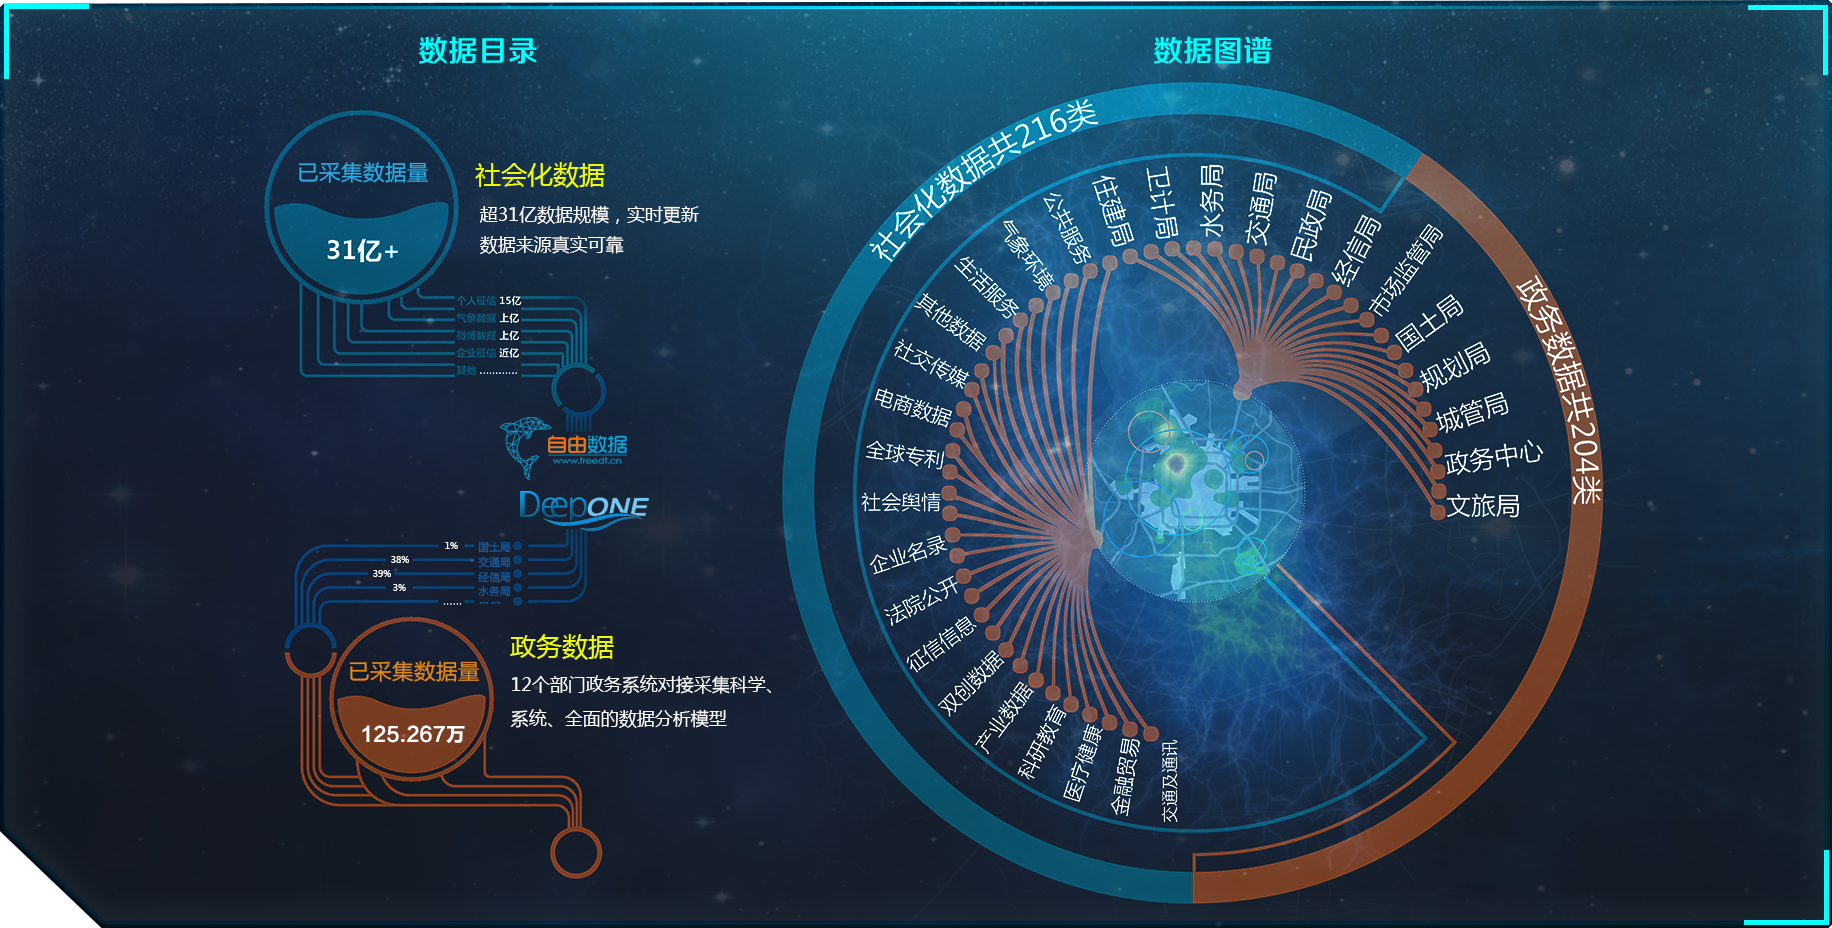
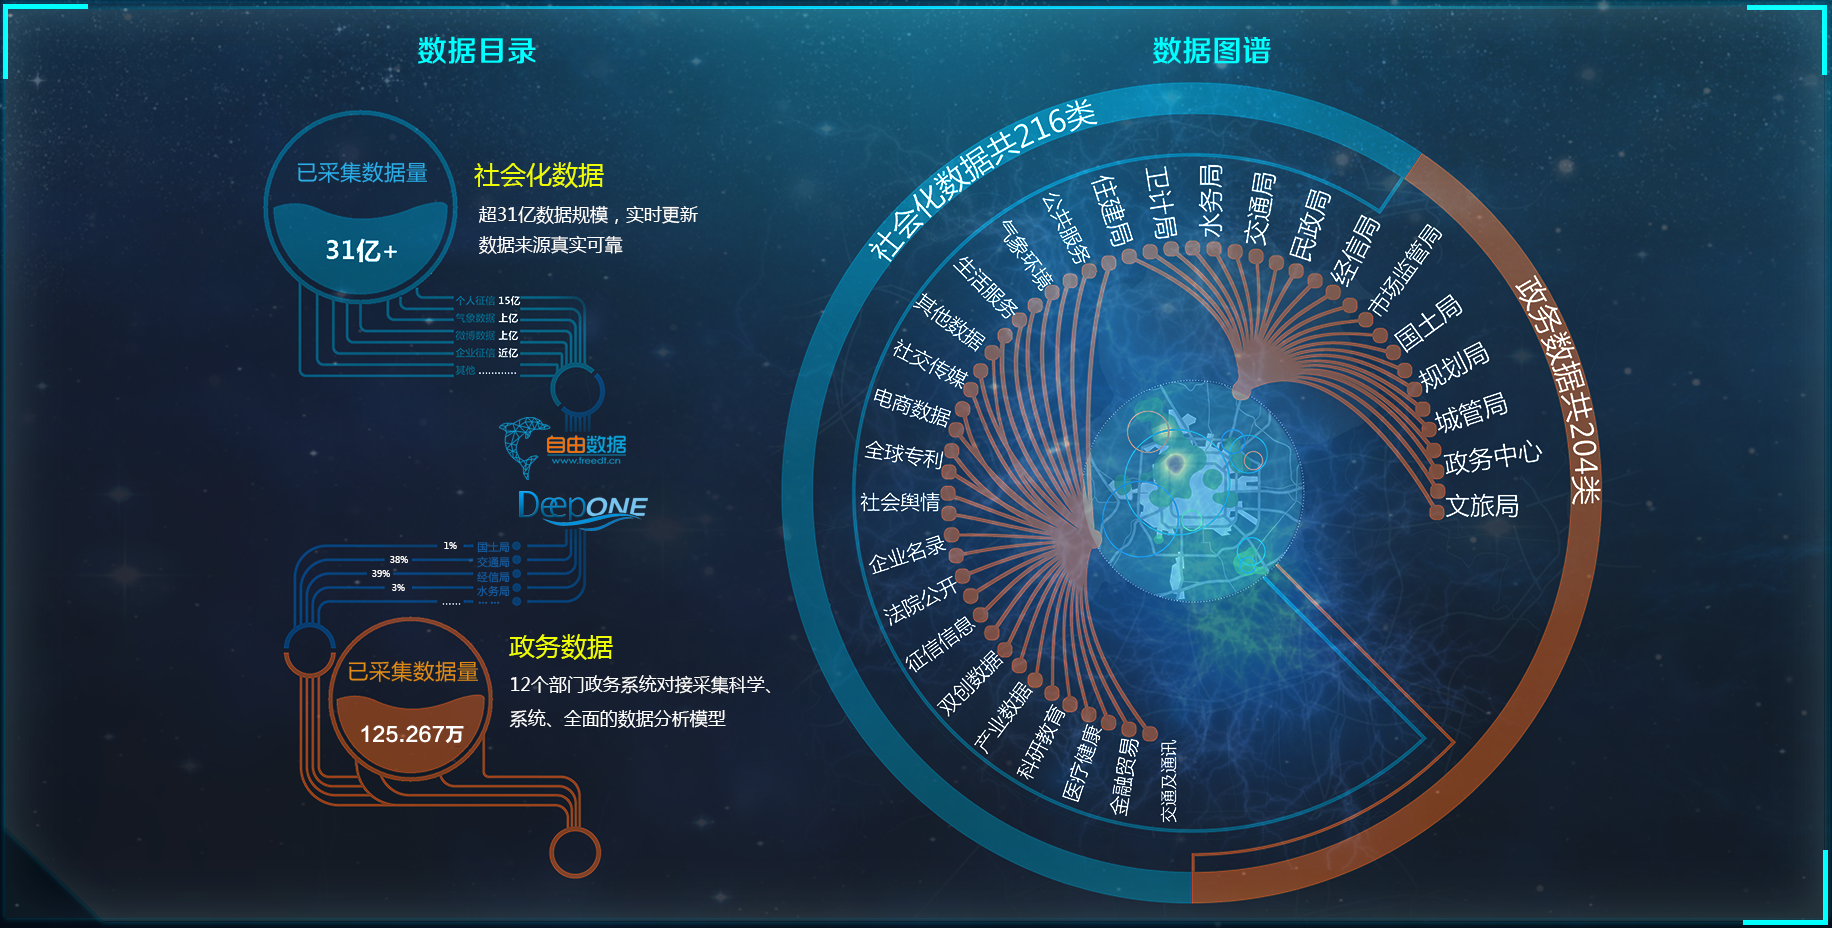
Seperating modules

diff --git a/web/CZPortal/artifact/partials/dashboard/style.less b/web/CZPortal/artifact/partials/dashboard/style.less
@@ -1,12 +1,13 @@
 #dashboard{
   width:7680px;
   height:2160px;
-  background:url(../assets/images/bg.png) no-repeat;
+  // background:url(../assets/images/bg.png) no-repeat;
 }
   .section-center{
     width:3840px;
     height:1080px;
     float:left;
+    background:url(../assets/images/bg_2.png) center no-repeat;
     .title{
       width:100%;
       height:294px;
@@ -19,13 +20,35 @@
       background:url(../assets/images/timeline.png) center no-repeat;
     }
   }
+  .section-main{
+    width:3840px;
+    height:2160px;
+  }
   .section {
     width: 1920px;
     height: 1080px;
     padding: 0 40px;
     float: left;
     &.city-datamap{
-      background:url(../assets/images/bg_datamap.png) center no-repeat;
+      background:url(../assets/images/bg_5.png) center no-repeat;
+      .content{
+        background:url(../assets/images/bg_datamap.png) center no-repeat;
+      }
+    }
+    &.standard{
+      background:url(../assets/images/bg_1.png) center no-repeat;
+    }
+    &.dept{
+      background:url(../assets/images/bg_3.png) center no-repeat;
+    }
+    &.support{
+      background:url(../assets/images/bg_4.png) center no-repeat;
+    }
+    &.idcuse{
+      background:url(../assets/images/bg_6.png) center no-repeat;
+    }
+    &.bigdata{
+      background:url(../assets/images/bg_7.png) center no-repeat;
     }
     h1 {
       font-size: 50px;

diff --git a/web/CZPortal/artifact/partials/app.js b/web/CZPortal/artifact/partials/app.js
@@ -37,6 +37,13 @@
         controller: 'dashboardController',
         controllerAs: 'dashboard',
       })
+      .state('main', {
+        url: '/main',
+        templateUrl: 'partials/main/view.html',
+        //templateUrl: 'circle/qzc.html',
+        controller: 'dashboardController',
+        controllerAs: 'dashboard',
+      })
       .state('bigdata', {
         url: '/bigdata',
         templateUrl: 'partials/bigdata/view.html',

diff --git a/web/CZPortal/artifact/partials/idcuse/view.html b/web/CZPortal/artifact/partials/idcuse/view.html
@@ -1,4 +1,4 @@
-<div class='section'>
+<div class='section idcuse'>
   <h1 class='text-center'>IDC硬件和软件使用情况</h1>
   <div class='content idc-use'>
     <div id='myDiv' class='chart-idc-use' wiserv-idc-use></div>

diff --git a/web/CZPortal/artifact/partials/main/view.html b/web/CZPortal/artifact/partials/main/view.html
@@ -1,0 +1,12 @@
+<div class='section-main main-center' >
+  <section wiserv-center-section>
+
+  </section>
+  <section  wiserv-datamap-section>
+
+  </section>
+
+  <section  wiserv-idcuse-section>
+
+  </section>
+</div>

diff --git a/web/CZPortal/artifact/partials/standard/view.html b/web/CZPortal/artifact/partials/standard/view.html
@@ -1,4 +1,4 @@
-<div class='section' >
+<div class='section standard' >
   <h1>崇州政务数据标准制定情况</h1>
   <div class='content standard-made'>
     <div class="nest-wrap wiserv-nest-data">

diff --git a/web/CZPortal/artifact/partials/dept/view.html b/web/CZPortal/artifact/partials/dept/view.html
@@ -1,4 +1,4 @@
-<div class='section'>
+<div class='section dept'>
   <h1>各部门数据汇集情况</h1>
   <div class='content dept-data'>
     <div class='chart-full' wiserv-dept-data></div>

diff --git a/web/CZPortal/artifact/partials/bigdata/view.html b/web/CZPortal/artifact/partials/bigdata/view.html
@@ -1,4 +1,4 @@
-<div class='section'>
+<div class='section bigdata'>
   <h1>崇州大数据产业综合指数</h1>
   <div class='content big-data-indicate'>
     <div class='data-line'></div>

diff --git a/web/CZPortal/artifact/partials/support/view.html b/web/CZPortal/artifact/partials/support/view.html
@@ -1,4 +1,4 @@
-<div class='section'>
+<div class='section support'>
   <h1>上层应用支持情况</h1>
   <div class='content app-support'>
 
